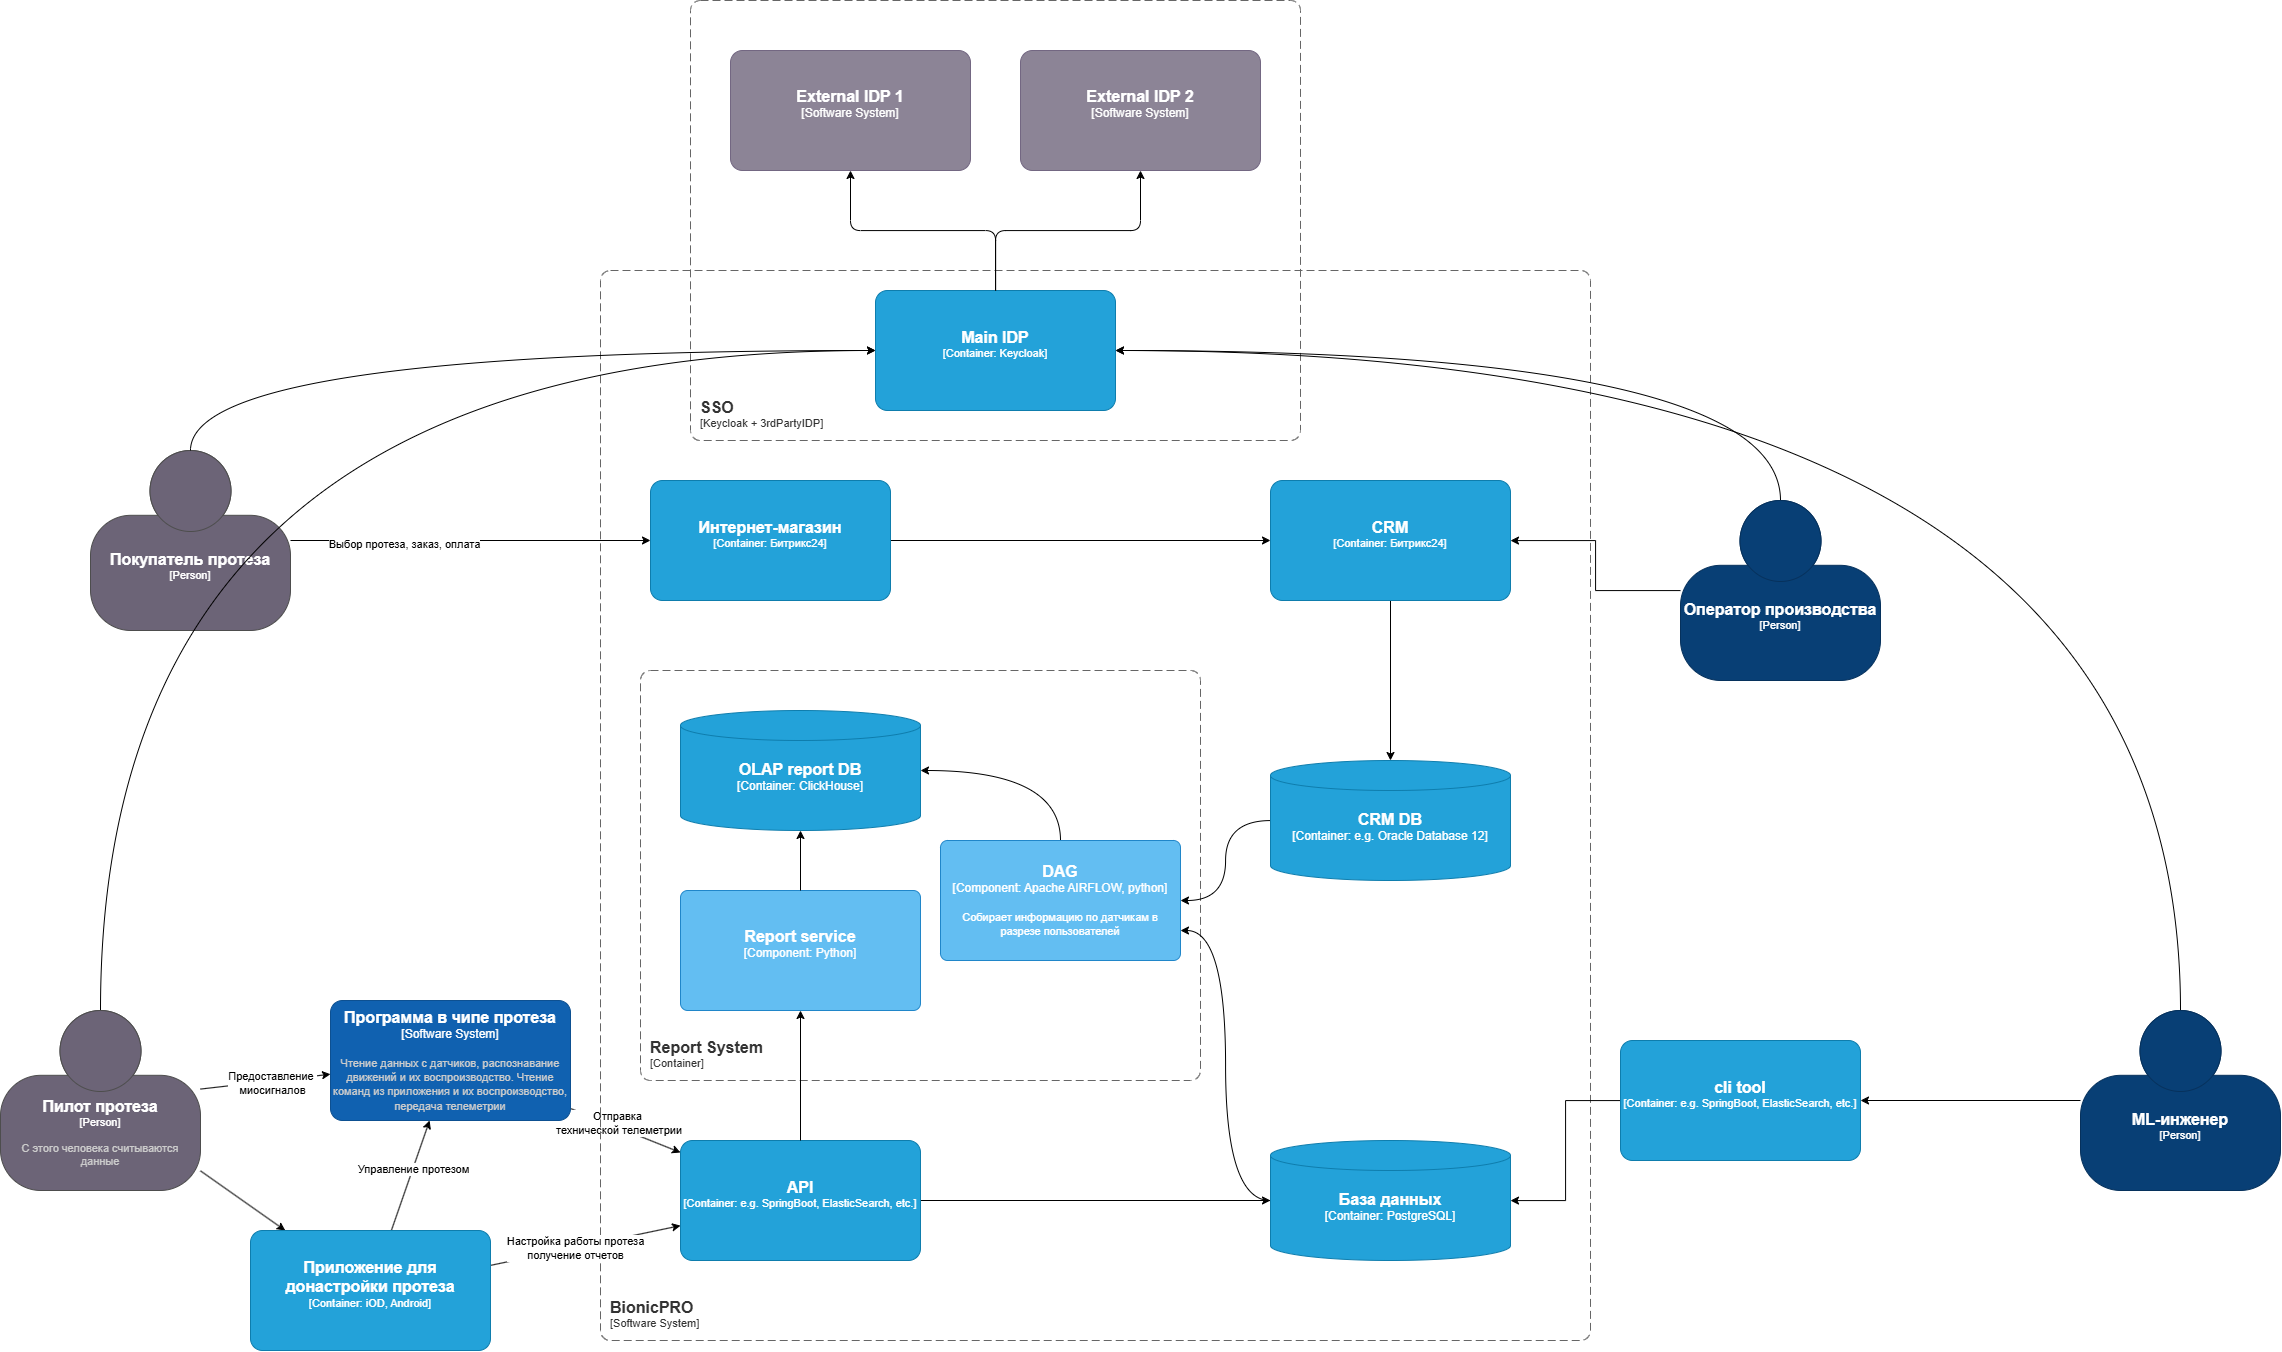
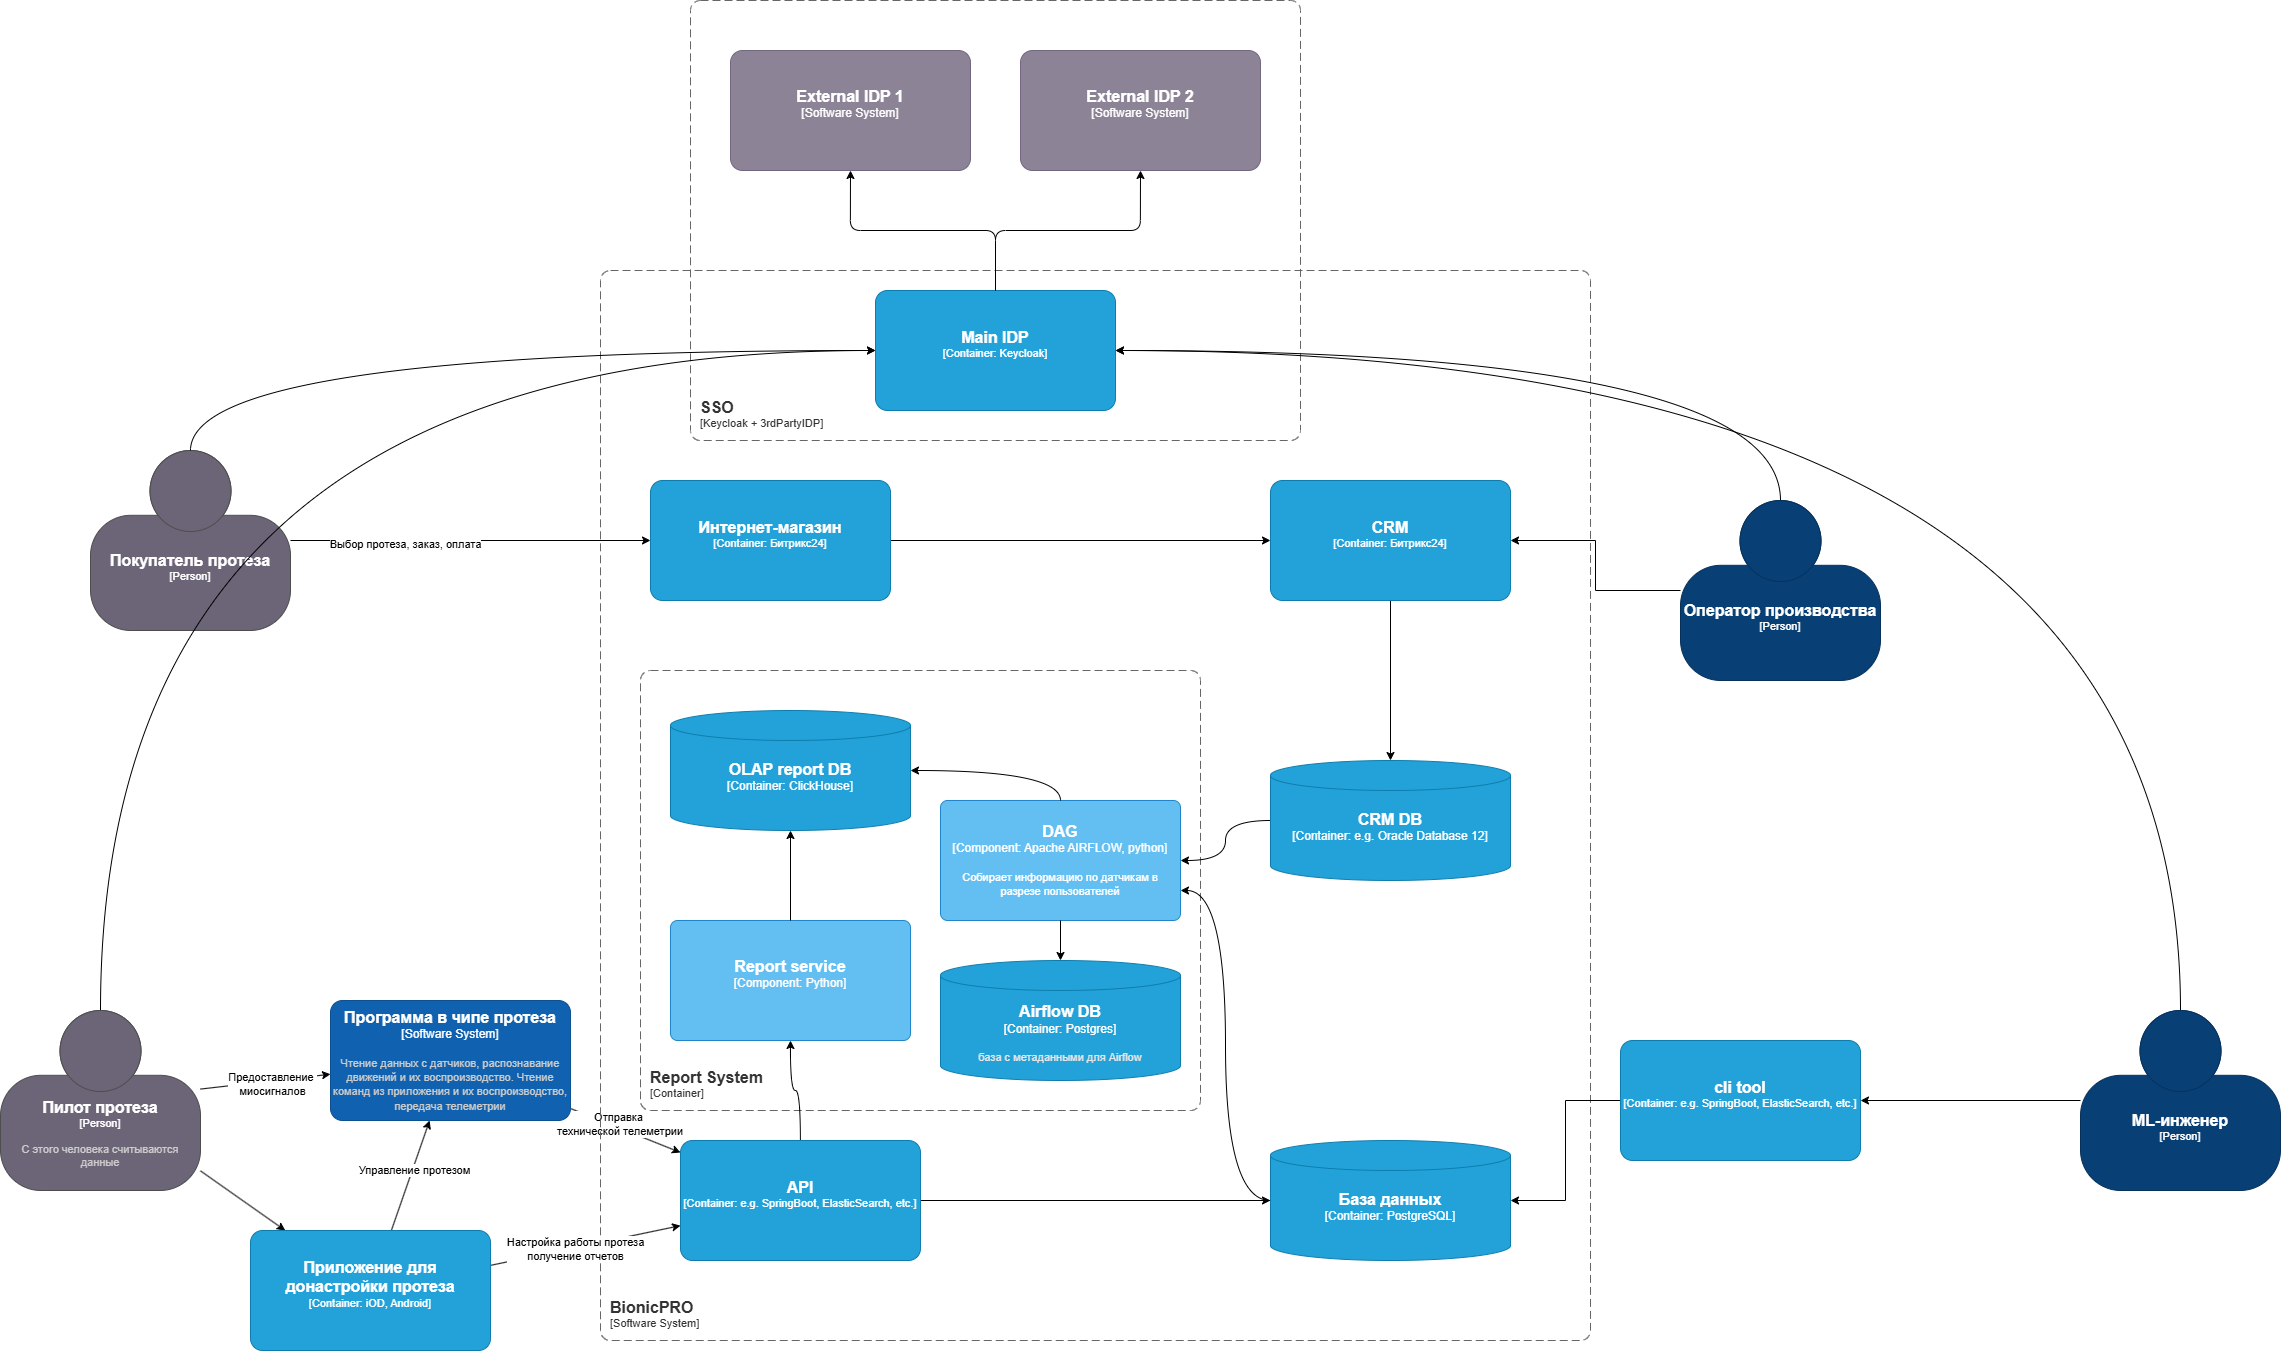
Task2.2

diff --git a/readme.md b/readme.md
@@ -119,7 +119,22 @@
 
 В ней также при инициализации создаются база `report` и соответсвующие таблицы `users` и `telemetry`  
 
-3. Реализован airflow DAG `postgres_to_clickhouse_ETL`
+3. подянты компоненты airflow
+   - postgres **airflow-db** для метаданных aitflow
+   - **airflow-init** - блок инициализации
+   - **airflow-webserver** - веб сервер
+   - **airflow-scheduler** - планировщик
+
+Отличия от реализации из практики урока: 
+я стал использовать более новый aiflow 3.1
+в нем **airflow-webserver** запускается в `command: standalone` режиме, сам создает админ пользователя со сложносгенерированным паролем
+чтобы его узнать необходимо найти его в логах запуска сервиса. Иначе никак (sic!)
+```bash
+$ docker-compose logs airflow-webserver | grep "Simple auth"
+```
+**airflow-init** скрипт инициализации содержит только миграцию бд
+
+4. Реализован airflow DAG `postgres_to_clickhouse_ETL`
 
 ```python
    with DAG(
